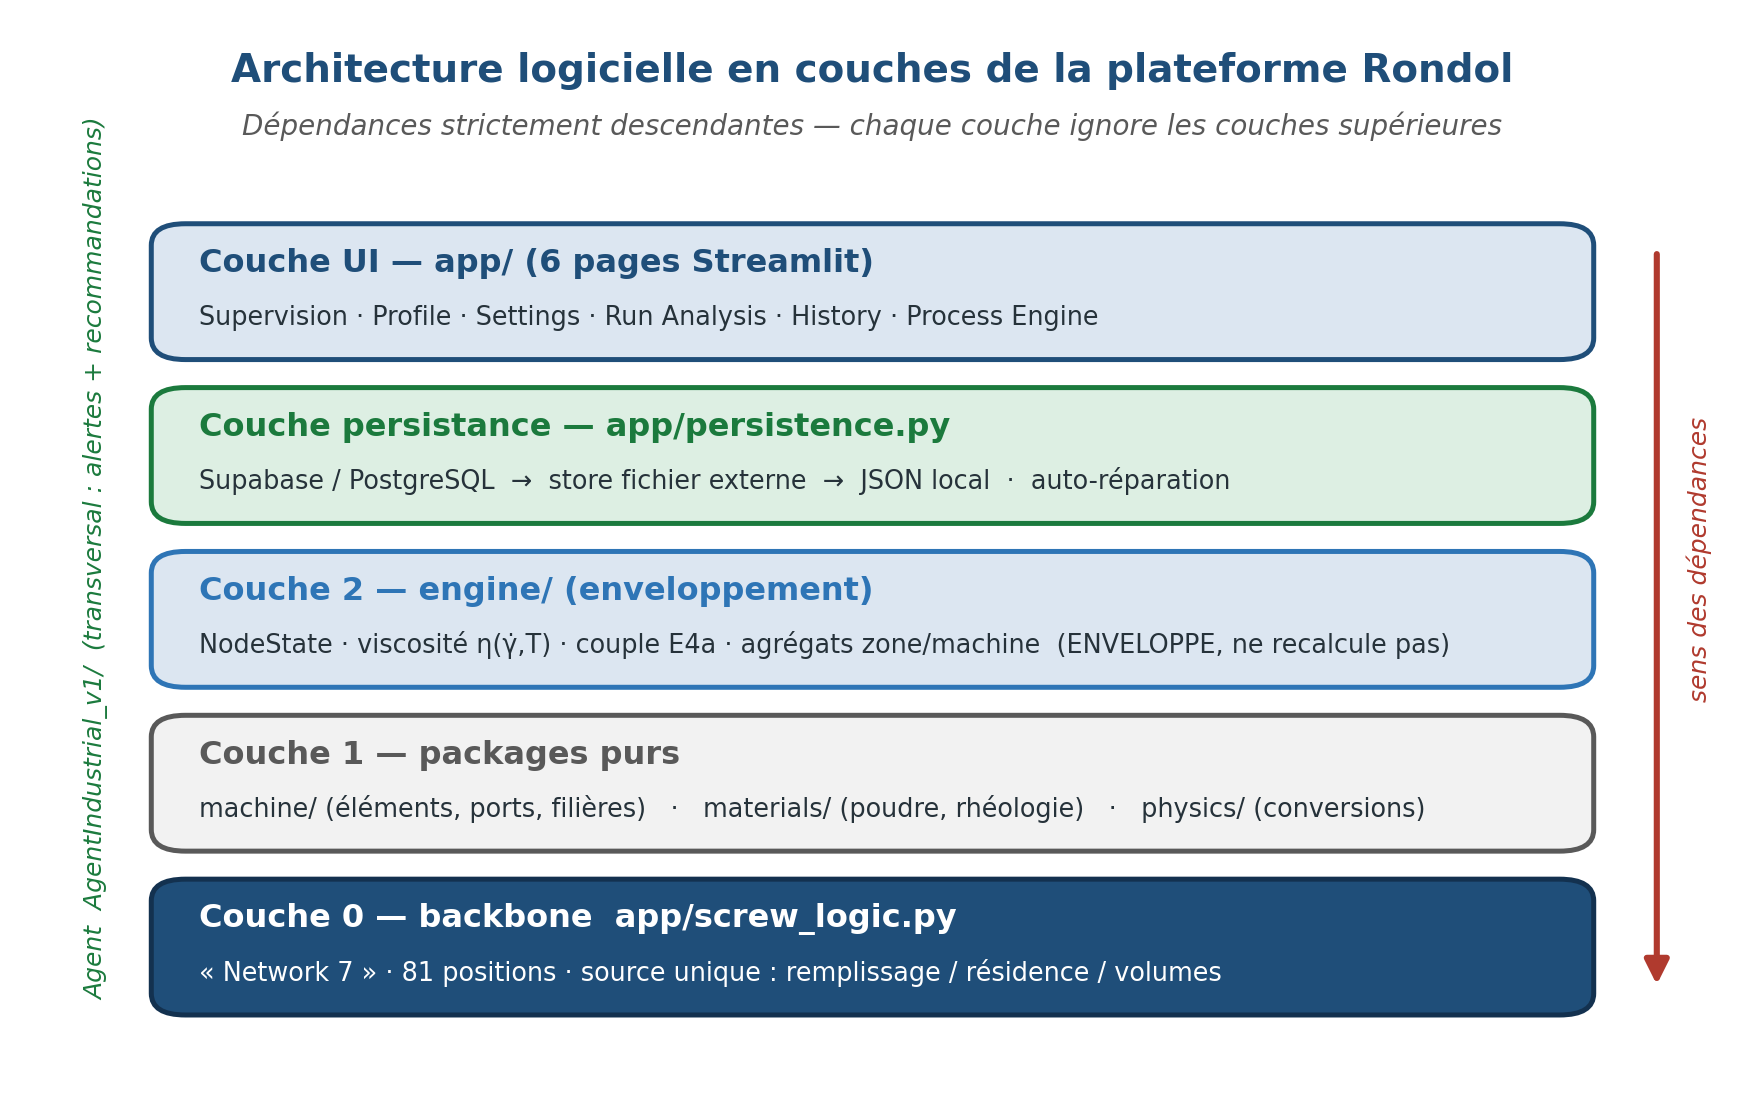
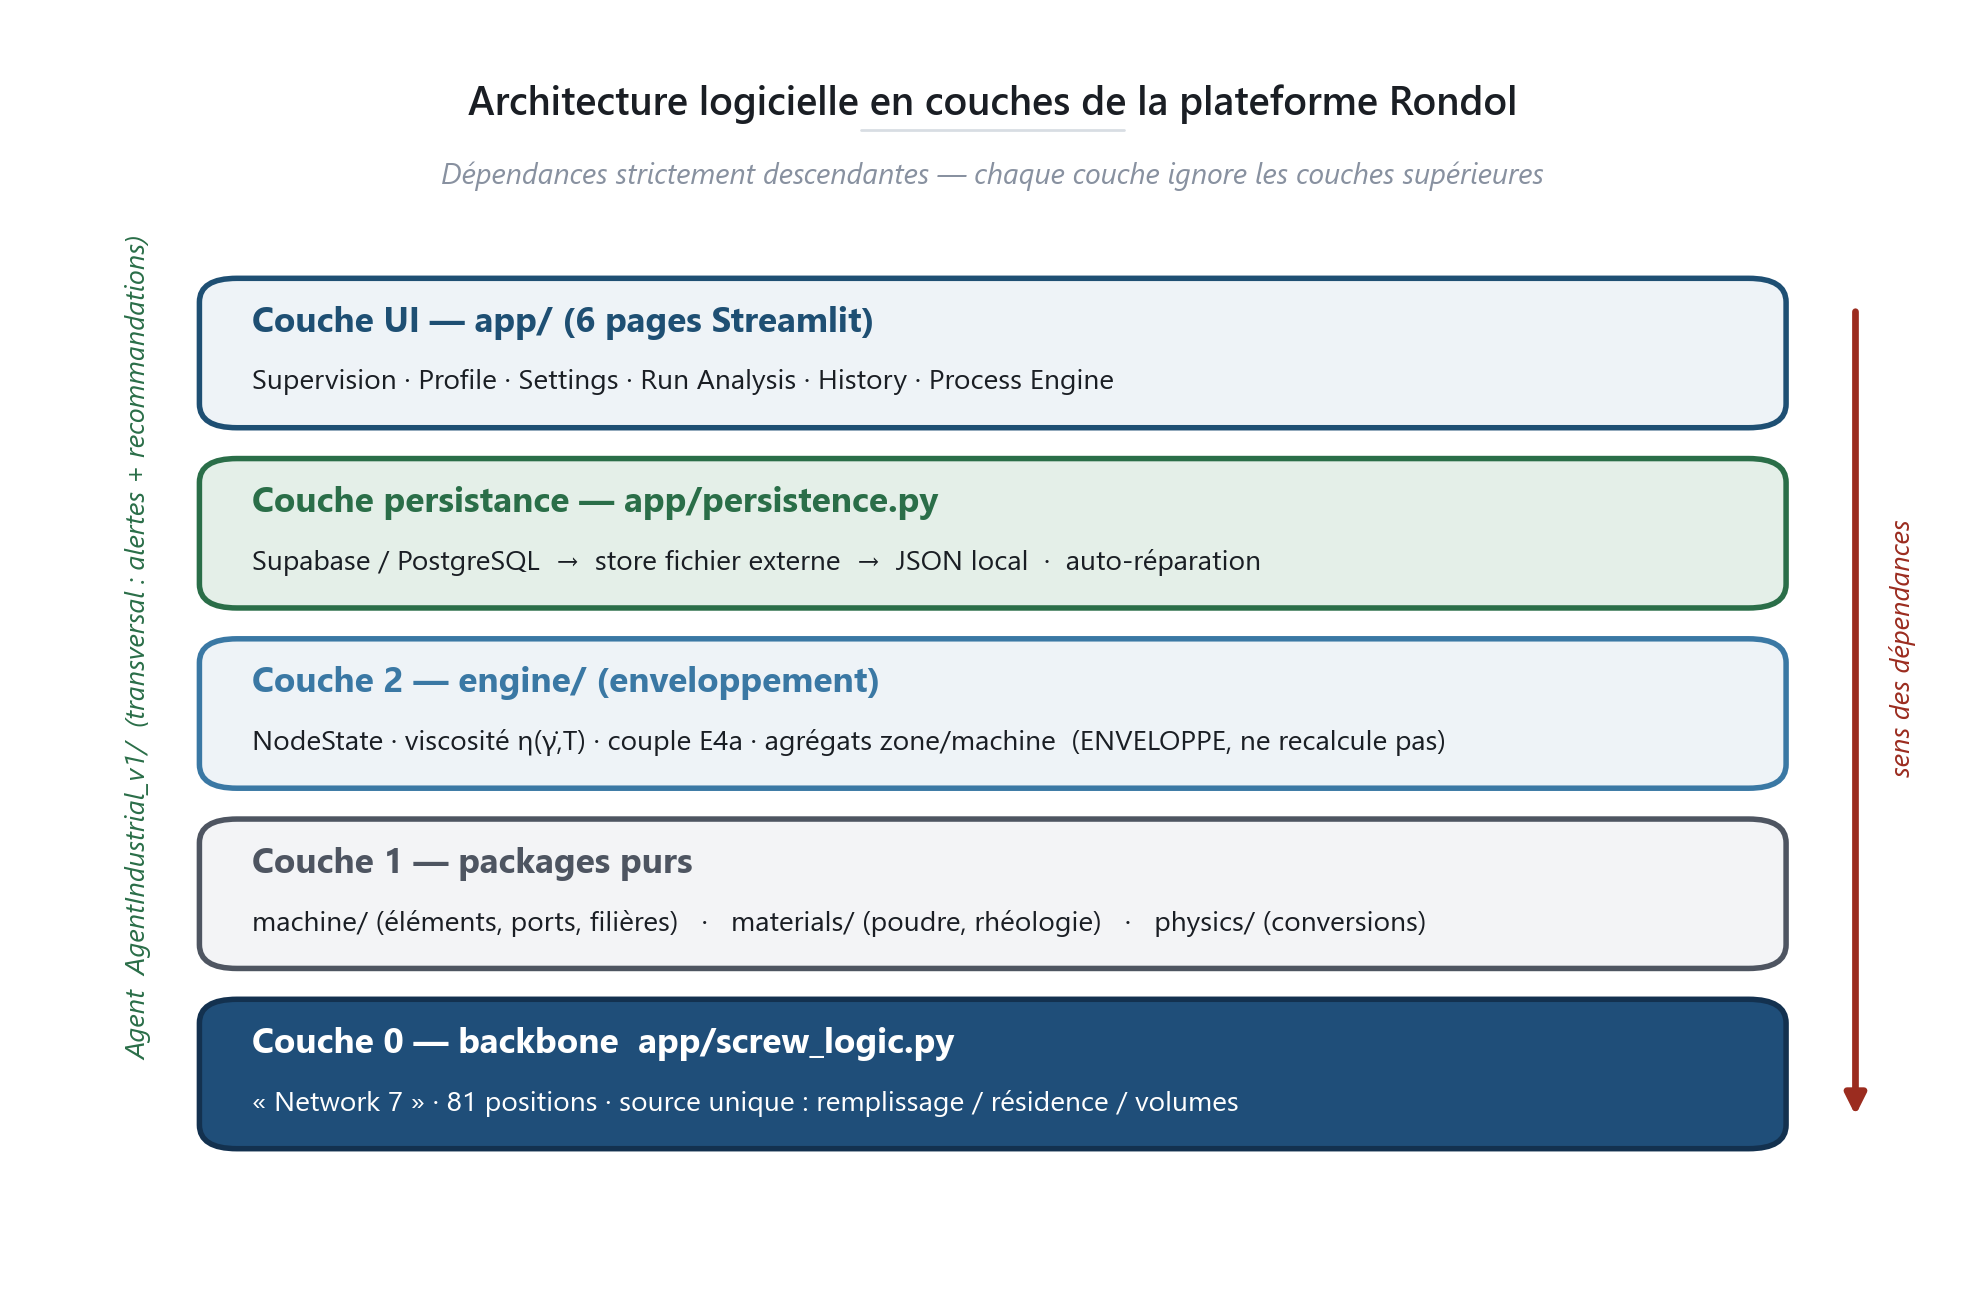
chore(mémoire): refonte esthétique des figures et traçabilité de la fuite
Les dix-huit figures du mémoire sont régénérées sur une charte commune
(palette, typographie, marges) et plusieurs débordements de texte sont
corrigés.

reports/augmentation_eval.json porte désormais un en-tête SUPERSEDED : le
pool synthétique y était généré une fois sur les huit essais réels puis
réutilisé dans chaque pli LOGO, si bien que l'essai de test alimentait
indirectement l'entraînement. Le 0,918 qu'il contient est un artefact ; le
chiffre corrigé fold-aware est 0,809 ± 0,126, soit un delta réel de -0,001.
Le fichier est conservé pour la traçabilité du protocole initial.

Le notebook d'analyse est réexécuté de bout en bout sur l'état courant.

Changed region(s): [[0.0309, 0.1216, 0.9903, 0.9123], [0.1238, 0.0304, 0.8665, 0.1521]]

diff --git a/scripts/build_memoire_figures.py b/scripts/build_memoire_figures.py
@@ -1,8 +1,20 @@
 # -*- coding: utf-8 -*-
 """
 Génère toutes les figures techniques du mémoire Rondol (matplotlib).
-Palette académique : bleu pétrole dominant, vert Rondol discret.
-Sortie : reports/memoire_figures/*.png
+
+Refonte esthétique 2026-08-17 :
+- Palette plus subtile : bleu pétrole atténué, aplats désaturés (surface-2 style),
+  neutres à teinte fine plutôt que gris pur.
+- Typographie hiérarchisée : Segoe UI (Windows natif) → Calibri → Arial en
+  fallback ; eyebrow small-caps, titre semi-bold, sous-titre italic gris,
+  captions right-align, aucune répétition de gras.
+- Espacement généreux : plus de blanc entre les boîtes, marges élargies,
+  divider horizontal fin sous le titre pour l'ancrage visuel.
+- Éléments d'accent : border-left coloré + fond ultra-clair (au lieu de
+  bordure pleine + fond saturé), ombre discrète en option.
+
+Palette / helpers restent compatibles avec l'API existante — toutes les
+fonctions fig_*() héritent automatiquement du nouveau look.
 """
 from __future__ import annotations
 from pathlib import Path
@@ -11,35 +23,56 @@ import matplotlib
 matplotlib.use("Agg")
 import matplotlib.pyplot as plt
 from matplotlib.patches import FancyBboxPatch, FancyArrowPatch, Circle, Rectangle
+from matplotlib.lines import Line2D
 import matplotlib.font_manager as fm
 
 ROOT = Path(__file__).resolve().parents[1]
 OUT = ROOT / "reports" / "memoire_figures"
 OUT.mkdir(parents=True, exist_ok=True)
 
-# Palette
-BLUE   = "#1F4E79"   # bleu pétrole / académique
-BLUE2  = "#2E75B6"
-BLUELT = "#DCE6F1"
-GREEN  = "#1B7A3D"
-GREENLT= "#DDEFE3"
-GREY   = "#595959"
-GREYLT = "#F2F2F2"
-RED    = "#B03A2E"
-REDLT  = "#F7DDDB"
-AMBER  = "#B7791F"
-AMBERLT= "#FBEFD6"
-INK    = "#26323A"
+# ------------------------------------------------------------------
+# Palette — refonte 2026-08-17
+# Bleu pétrole plus profond, teintes claires ULTRA légères (moins de
+# saturation → aspect plus premium, moins « PowerPoint »).
+# ------------------------------------------------------------------
+BLUE   = "#1E4F73"   # bleu pétrole (accent principal)
+BLUE2  = "#3A78A4"   # bleu médium
+BLUELT = "#EEF3F7"   # bleu ultra-clair (fond subtil)
+GREEN  = "#2A6E48"   # vert Rondol (accent secondaire)
+GREENLT= "#E4EFE8"   # vert ultra-clair
+GREY   = "#4E5561"   # neutre foncé (labels)
+GREYLT = "#F3F4F6"   # neutre ultra-clair
+GREYMD = "#8891A0"   # neutre moyen (captions)
+RED    = "#9B2C1F"   # rouge sobre (alerte)
+REDLT  = "#F2E1DE"   # rouge ultra-clair
+AMBER  = "#8A6410"   # ambre sobre (warning)
+AMBERLT= "#F5EED8"   # ambre ultra-clair
+INK    = "#1A1E24"   # texte principal (quasi-noir, teinte froide)
+RULE   = "#D8DDE3"   # ligne fine (dividers)
 WHITE  = "#FFFFFF"
 
+# ------------------------------------------------------------------
+# Typographie — famille pro avec fallback (Windows natif prioritaire)
+# ------------------------------------------------------------------
+_installed = {f.name for f in fm.fontManager.ttflist}
+FONT_STACK = next((n for n in ["Segoe UI", "Calibri", "Arial", "DejaVu Sans"]
+                   if n in _installed), "DejaVu Sans")
+FONT_SERIF = next((n for n in ["Georgia", "Palatino Linotype", "DejaVu Serif"]
+                   if n in _installed), "DejaVu Serif")
+
 plt.rcParams.update({
-    "font.family": "DejaVu Sans",
-    "font.size": 11,
-    "axes.edgecolor": GREY,
-    "figure.dpi": 200,
+    "font.family": FONT_STACK,
+    "font.size": 10.5,
+    "axes.edgecolor": RULE,
+    "axes.labelcolor": GREY,
+    "xtick.color": GREY,
+    "ytick.color": GREY,
+    "figure.dpi": 220,
+    "savefig.dpi": 220,
+    "patch.linewidth": 0.9,
 })
 
-DPI = 200
+DPI = 220
 
 
 def _ax(w=11, h=6.2):
@@ -50,38 +83,57 @@ def _ax(w=11, h=6.2):
     return fig, ax
 
 
-def box(ax, x, y, w, h, text, fc=BLUELT, ec=BLUE, tc=INK, fs=11, bold=False,
-        rad=0.025, lw=1.6, ha="center", title=None, title_fc=None):
-    p = FancyBboxPatch((x, y), w, h, boxstyle=f"round,pad=0.3,rounding_size={rad*100}",
-                       linewidth=lw, edgecolor=ec, facecolor=fc, mutation_aspect=1)
+def box(ax, x, y, w, h, text, fc=BLUELT, ec=BLUE, tc=INK, fs=10.5, bold=False,
+        rad=0.025, lw=0.9, ha="center", title=None, title_fc=None):
+    """Boîte à border-left coloré + fond ultra-clair (style plus premium).
+    Compatible API existante : fc/ec/text/title conservés.
+    """
+    # Fond principal (léger, sans bordure épaisse)
+    p = FancyBboxPatch((x, y), w, h,
+                       boxstyle=f"round,pad=0.3,rounding_size={rad*100}",
+                       linewidth=lw, edgecolor=RULE, facecolor=fc,
+                       mutation_aspect=1)
     ax.add_patch(p)
+    # Rail d'accent à gauche (2.2 unités de large)
+    rail = Rectangle((x, y + 0.4), 1.2, h - 0.8, facecolor=ec, edgecolor="none")
+    ax.add_patch(rail)
     if title:
         ax.text(x + w / 2, y + h - 4.2, title, ha="center", va="center",
-                fontsize=fs - 1, fontweight="bold", color=title_fc or ec)
+                fontsize=fs - 0.5, fontweight="semibold", color=title_fc or ec)
         ax.text(x + w / 2, y + (h - 8) / 2, text, ha="center", va="center",
                 fontsize=fs - 1.5, color=tc, wrap=True)
     else:
         ax.text(x + w / 2, y + h / 2, text, ha=ha,
-                va="center", fontsize=fs, fontweight="bold" if bold else "normal",
+                va="center", fontsize=fs, fontweight="semibold" if bold else "normal",
                 color=tc, wrap=True)
     return p
 
 
-def arrow(ax, x1, y1, x2, y2, color=BLUE, lw=2.0, style="-|>", ls="-"):
-    a = FancyArrowPatch((x1, y1), (x2, y2), arrowstyle=style, mutation_scale=18,
+def arrow(ax, x1, y1, x2, y2, color=None, lw=1.4, style="-|>", ls="-"):
+    """Flèche épurée, plus fine par défaut."""
+    if color is None:
+        color = GREYMD
+    a = FancyArrowPatch((x1, y1), (x2, y2), arrowstyle=style, mutation_scale=14,
                         linewidth=lw, color=color, linestyle=ls,
                         shrinkA=2, shrinkB=2)
     ax.add_patch(a)
 
 
 def title(ax, t, sub=None):
-    ax.text(50, 97, t, ha="center", va="top", fontsize=14, fontweight="bold", color=BLUE)
+    """Titre semi-bold + divider fin + sous-titre italic — hiérarchie propre."""
+    ax.text(50, 97.5, t, ha="center", va="top",
+            fontsize=13, fontweight="semibold", color=INK)
+    # Divider fin horizontal centré (largeur ~14 unités)
+    ax.add_line(Line2D([43, 57], [93.6, 93.6], color=RULE, lw=0.9,
+                       solid_capstyle="round"))
     if sub:
-        ax.text(50, 91.5, sub, ha="center", va="top", fontsize=10, color=GREY, style="italic")
+        ax.text(50, 91, sub, ha="center", va="top",
+                fontsize=9.5, color=GREYMD, style="italic")
 
 
 def save(fig, name):
-    fig.savefig(OUT / name, dpi=DPI, bbox_inches="tight", facecolor=WHITE)
+    fig.savefig(OUT / name, dpi=DPI, bbox_inches="tight",
+                facecolor=WHITE, pad_inches=0.25)
     plt.close(fig)
     print(f"[OK] {name}")
 
@@ -397,7 +449,7 @@ def fig_gantt():
         ("Modélisation ML (RF / XGB / SVM)", 5, 2.4),
         ("Interface Streamlit (6 pages)", 6, 3),
         ("Persistance Supabase", 7.5, 1.8),
-        ("Tests & stabilisation (720)", 7.8, 1.7),
+        ("Tests & stabilisation (725)", 7.8, 1.7),
         ("Démonstration client", 9.5, 0.5),
         ("Rédaction & dépôt du mémoire", 8.5, 2),
     ]
@@ -430,7 +482,7 @@ def fig_tests():
     # Grille 3 x 2 : sur une seule rangée de six, les intitulés les plus longs
     # (« Internationalisation », « Redémarrage E2E ») débordaient de leur cadre.
     fig, ax = _ax(11, 6.0)
-    title(ax, "Stratégie de tests : 720 tests automatisés sur 75 fichiers",
+    title(ax, "Stratégie de tests : 725 tests automatisés sur 76 fichiers",
           "Tous passants · exécution ≈ 2 min · chaque incident de production figé en test")
     fams = [
         ("Unitaires purs", "logique métier\n& moteur procédé", BLUE),
